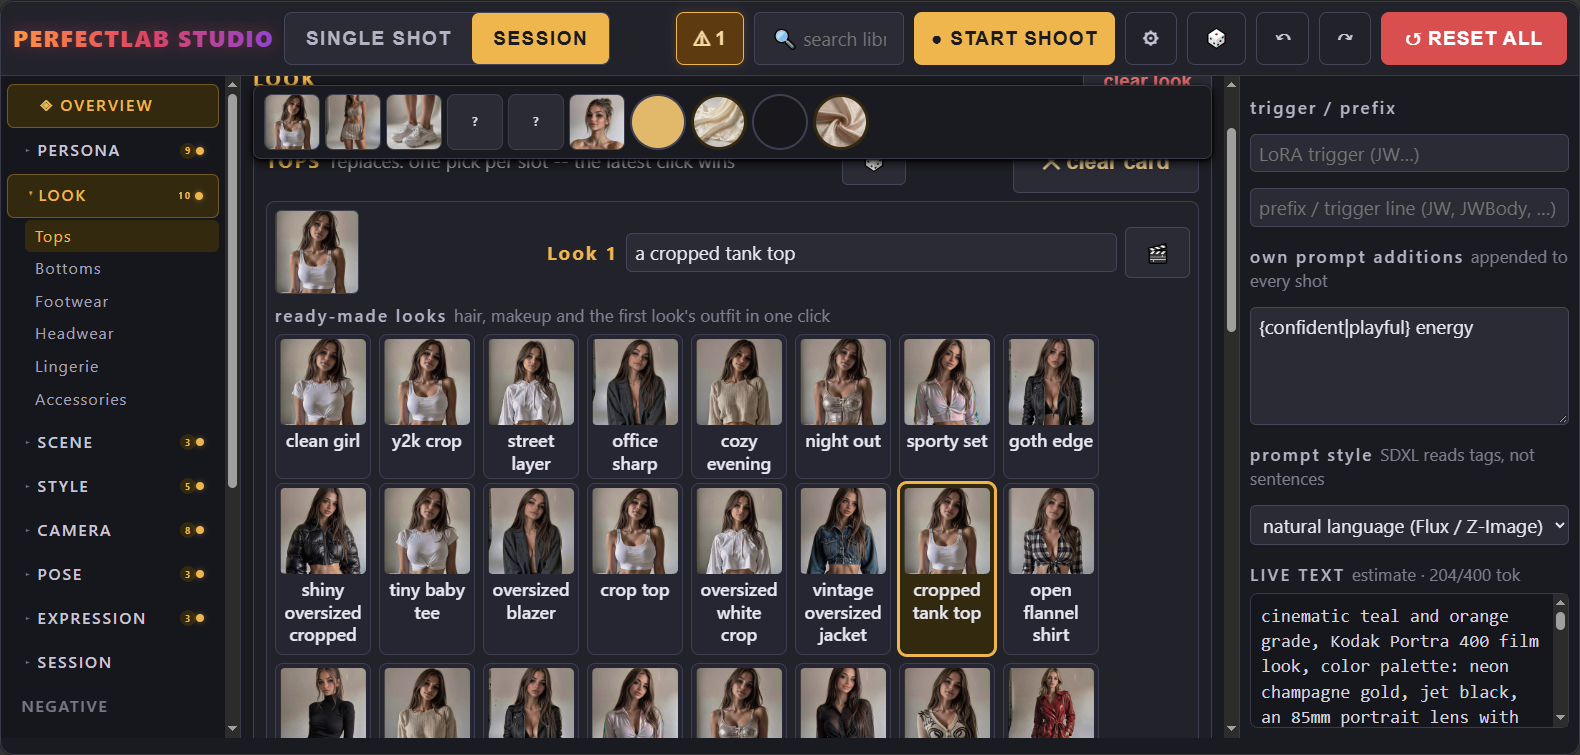
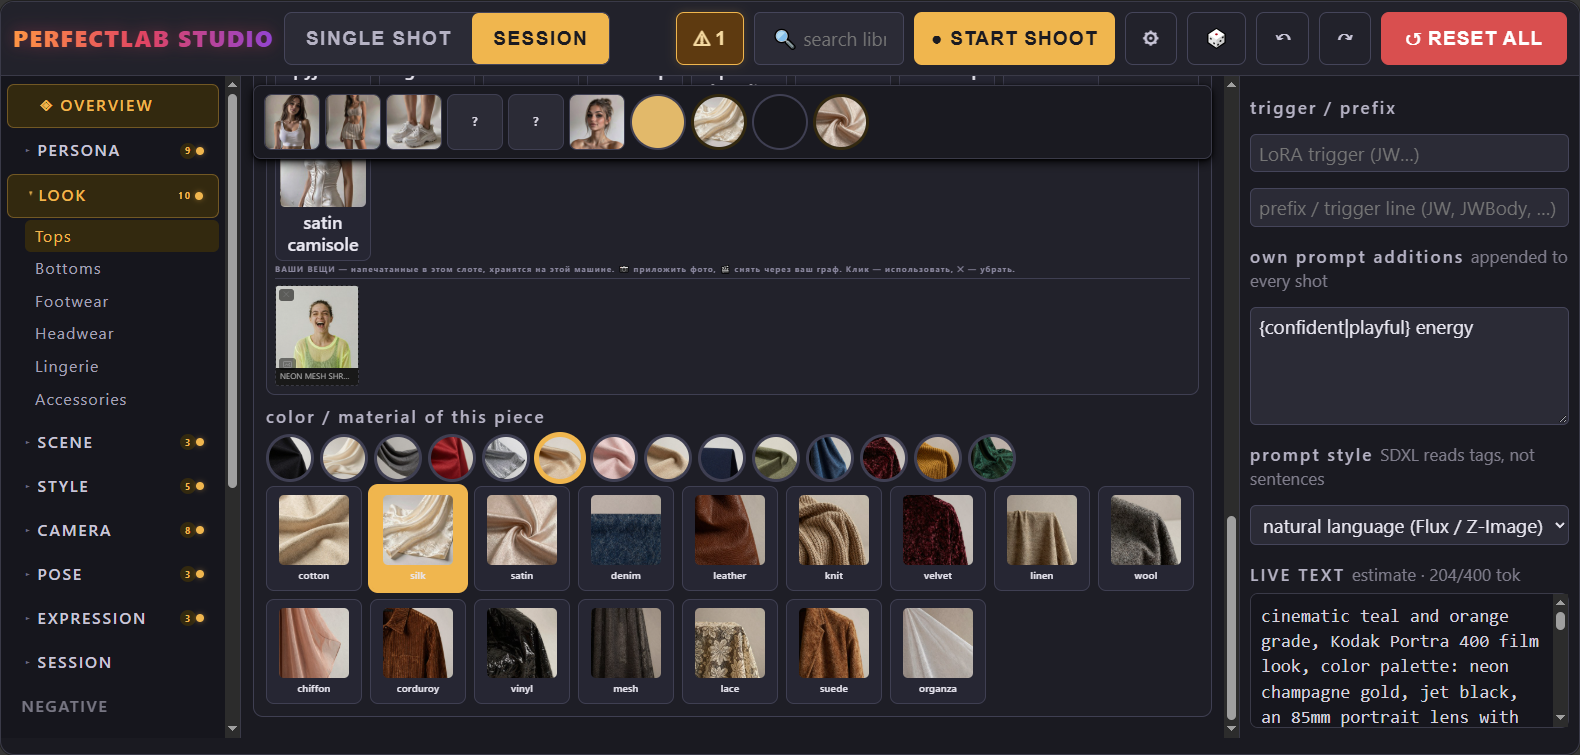
1.1.17: every library image loads, every doc frame sits in its section
- the lingerie color swatches asked for a lingerie_color category that
  never existed: 17 swatches 404'd on every render of the lingerie
  card. The set colors ARE the fabric colors, so the swatches now reuse
  the look_color wall -- same 17 fabrics, same photos, zero missing
- the accessory color row asked acc_color for 12 finishes while the
  package ships 8: four swatches fell back to their plain hex (and
  four 404s each render). The shooting tool now carries an acc_color
  recipe with all 12 finishes, so the next GPU pass fills the gap:
  python tools/shoot_tiles.py acc_color
- THE TILE INVENTORY AUDITED END TO END: every one of the 700 packaged
  tile URLs probed from the browser (all 200, all served from the
  node's own web folder, nothing from the output dir), every section
  card counted chip by chip (no empty grids; the pose and expression
  cards use a different chip class than the census first assumed and
  are full), and the custom-tile flow (user-shot previews through the
  graph into userdata) untouched -- stock tiles from the node folder,
  own tiles from userdata, exactly as before
- doc frames re-seated: the props section carried the WEATHER card
  (and the weather section carried nothing at all); props_pick.png
  now shows the actual props grid inside the location card, the
  weather card sits under Weather. headwear_pick re-shot on the real
  headwear card (it showed tops), tops_materials re-shot scrolled to
[…]

diff --git a/web/perfectlab_studio_panel.js b/web/perfectlab_studio_panel.js
@@ -1306,11 +1306,13 @@ const lookHeadwearSub = lookSlotSub("headwear", HEADWEAR_LIB, "headwear", "HEADW
 const lookHeadwearColored = lookSlotWithColors(lookHeadwearSub, "headwear", HEADWEAR_COLORS,
     ["knit", "wool", "cotton", "leather", "silk", "straw", "denim", "felt", "corduroy", "velvet", "tweed"],
     "headwear_material", "headwear_color");
-// lingerie: its own slot -- the set is the whole outfit when nothing covers it
+// lingerie: its own slot -- the set is the whole outfit when nothing covers it.
+// The set colors are the fabric colors: the swatch photos reuse the look_color
+// wall (the same 17 fabrics), no separate lingerie_color category exists
 const lookLingerieSub = lookSlotSub("lingerie", LINGERIE_LIB, "lingerie", "LINGERIE");
 const lookLingerieColored = lookSlotWithColors(lookLingerieSub, "lingerie", LOOK_COLORS,
     ["silk", "satin", "lace", "velvet", "mesh", "cotton", "knit"],
-    "lingerie_material", "lingerie_color");
+    "lingerie_material", "look_color");
 // accessories: the pick grid plus one color swatch row for the whole set
 const lookAccColoredSub = (s) => {
     const base = lookAccSub(s);

diff --git a/tools/shoot_tiles.py b/tools/shoot_tiles.py
@@ -95,6 +95,11 @@ def state_for(cat, value):
                     "photorealistic, plain warm backdrop",
                     jw, framing="portrait shot", focus="the jewelry",
                     extra=lambda s: s["look"].__setitem__("looks", [{"name": "tile", "accessories": [value]}]))
+    if cat == "acc_color":
+        # the accessory metal and enamel colors: a macro swatch of the finish
+        return base(f"A macro photograph of a {value} metal surface, an abstract color and "
+                    "texture swatch filling the frame, photorealistic, soft studio light",
+                    empty_person, framing="extreme close-up", focus="the fabric texture", fmt="1:1")
     if cat == "hairstyle":
         return base(f"A clean beauty portrait showing {value} on a young woman, "
                     "photorealistic, plain warm backdrop, hair the star of the frame",
@@ -186,6 +191,10 @@ CATS = {
     "framing": FRAMINGS, "focus": FOCUS, "lens": LENS_LIB,
     "props": PROPS_LIB,
     "lingerie": LINGERIE,
+    # the accessory metal and enamel swatches: 12 colors, only 8 frames shipped
+    "acc_color": ["gold", "silver", "black", "rose gold", "pearl white", "gunmetal",
+                  "bronze", "enamel red", "pastel pink", "mustard yellow",
+                  "burgundy", "olive green"],
 }
 
 # chips shown as plain text or CSS boxes -- no tiles to shoot

diff --git a/README.md b/README.md
@@ -135,11 +135,13 @@ From a neon-lit arcade to a minimalist marble studio, from a rooftop pool to a r
 
 12 conditions, each an empty landscape, plus in-air effects that work indoors too: falling petals, floating bubbles.
 
+<p align="center"><img src="docs/sections/weather_pick.png" alt="Weather card" width="720"></p>
+
 ### Props
 
 39 scene props in four blocks: portable (a vintage bicycle, a motorcycle, balloons, a bouquet, a film camera, a polaroid, a vinyl record, a skateboard, a suitcase), everyday carry (a takeaway coffee cup, an ice cream cone, a slice of pizza, a disposable camera, dried flowers, a rolled magazine, roller skates, shopping bags, a cocktail glass, a hand mirror), living props (a fluffy cat in her arms, a small dog on a leash) and statement furniture (a grand piano, a lit fireplace, a chandelier, a four-poster bed, a coat rack, a wall of framed photos). Multi-select: they ride the scene line as *with a bouquet and a vinyl record*.
 
-<p align="center"><img src="docs/sections/weather_pick.png" alt="Weather card" width="720"></p>
+<p align="center"><img src="docs/sections/props_pick.png" alt="The props grid in the location card" width="760"></p>
 
 ## 🎞 Style
 
